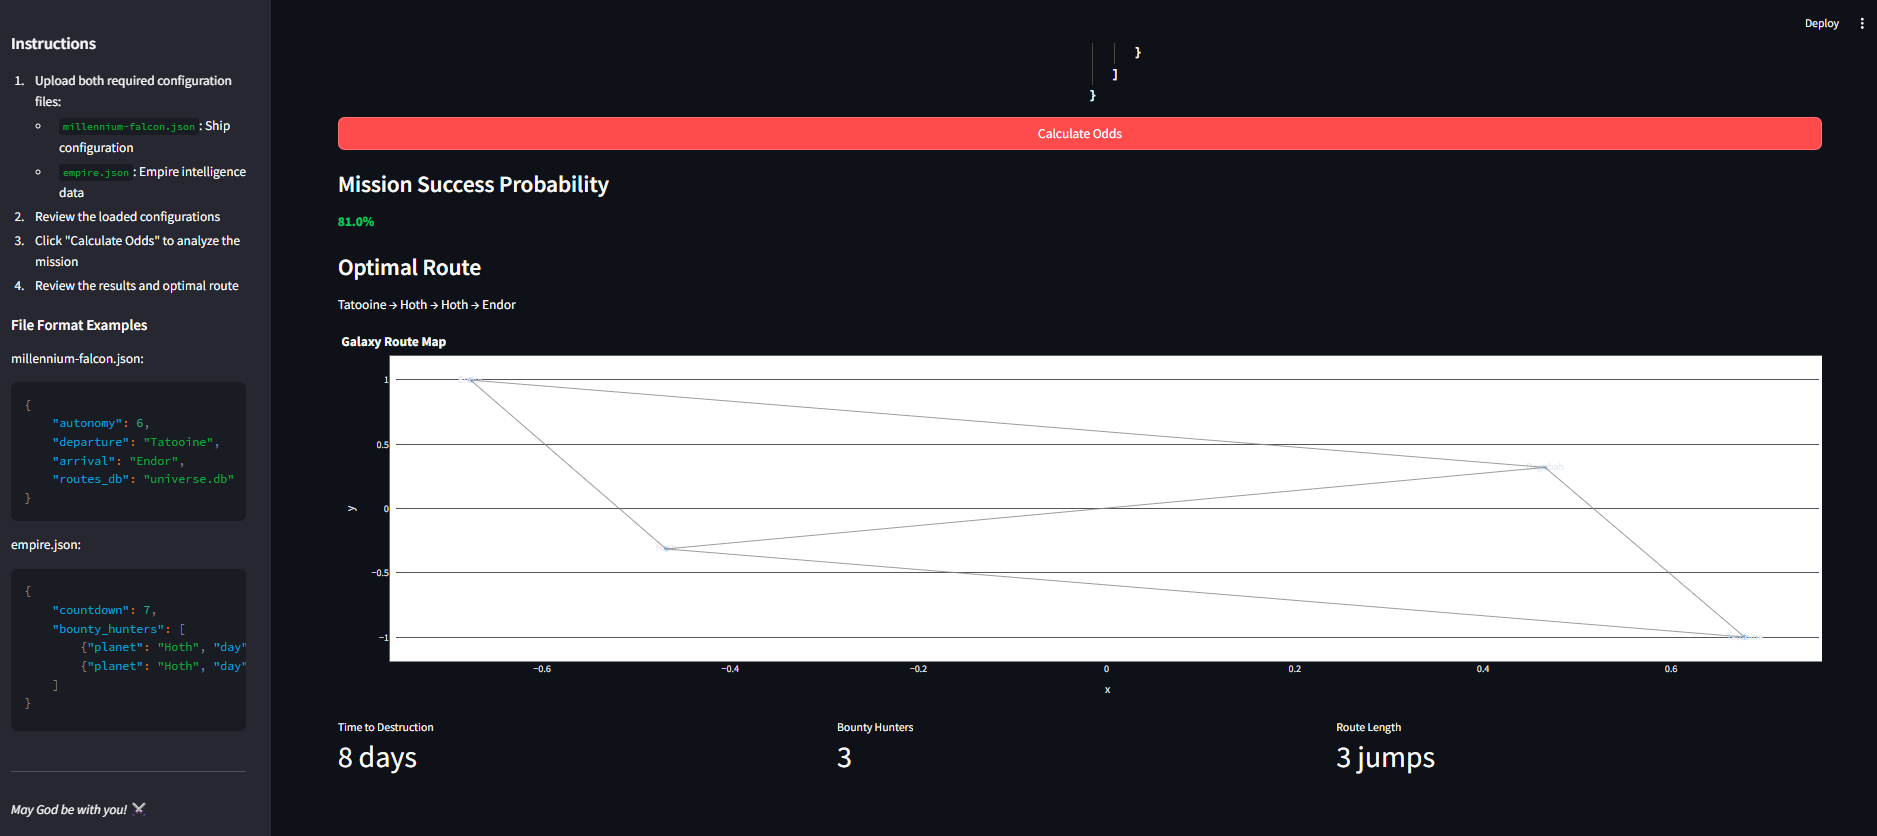
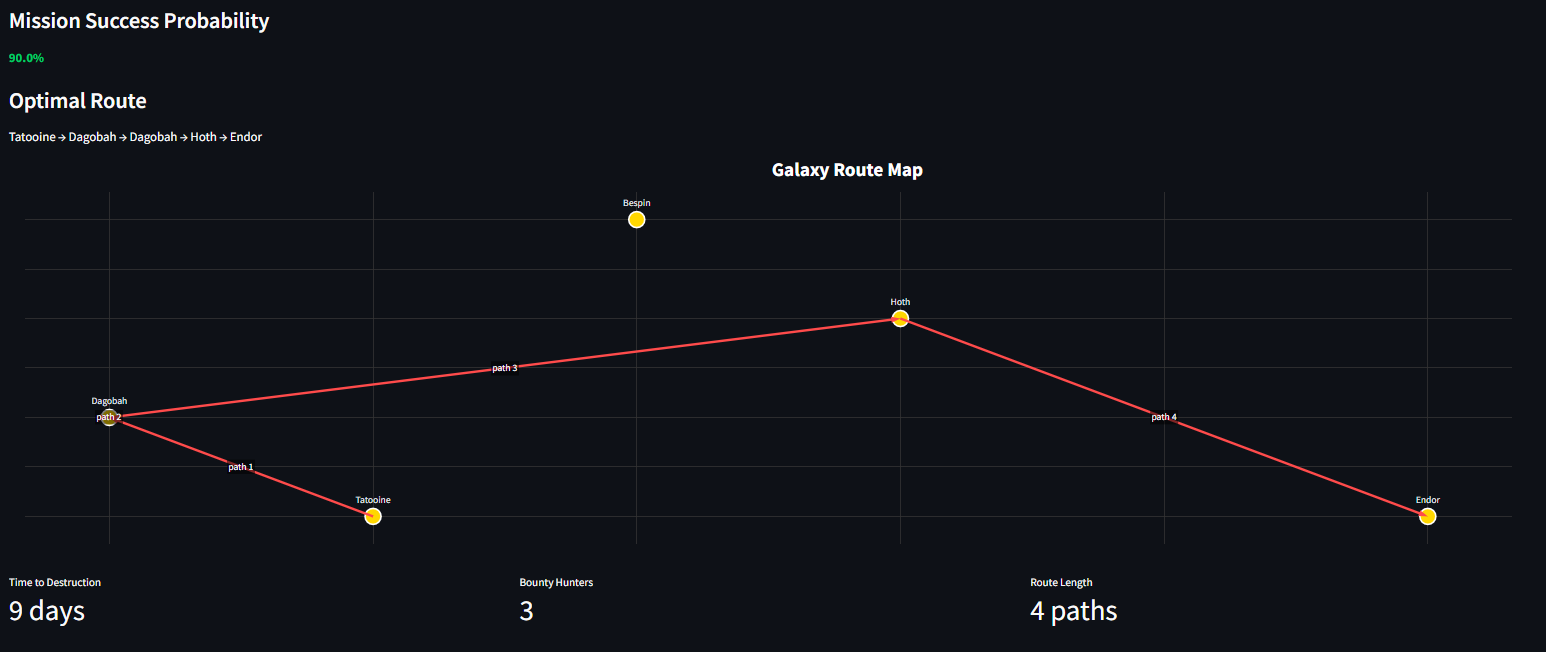
Some updates

diff --git a/Millennium-falcon-solution/webapp.py b/Millennium-falcon-solution/webapp.py
@@ -8,8 +8,7 @@ successfully reaching Endor.
 import streamlit as st
 import json
 from typing import Dict, Tuple
-import plotly.express as px
-import networkx as nx
+import plotly.graph_objects as go
 
 from Galaxy import Empire, MillenniumFalcon
 
@@ -62,60 +61,100 @@ def load_json_file(file_content) -> Dict:
 
 def create_route_visualization(falcon: MillenniumFalcon, optimal_path: list):
     """Create an interactive route visualization."""
-    G = falcon.create_graph()
-
-    # Create positions for nodes
-    pos = nx.spring_layout(G)
-
-    # Create edge trace
-    edge_x = []
-    edge_y = []
-    for edge in G.edges():
-        x0, y0 = pos[edge[0]]
-        x1, y1 = pos[edge[1]]
-        edge_x.extend([x0, x1, None])
-        edge_y.extend([y0, y1, None])
-
-    # Create node trace
-    node_x = []
-    node_y = []
-    node_text = []
-    node_color = []
-
-    for node in G.nodes():
-        x, y = pos[node]
-        node_x.append(x)
-        node_y.append(y)
-        node_text.append(node)
-        if node in optimal_path:
-            node_color.append("#FF4B4B")  # Red for optimal path
-        else:
-            node_color.append("#1f77b4")  # Blue for other nodes
+    # Define fixed positions for known planets
+    planet_positions = {
+        "Tatooine": (0, 0),
+        "Hoth": (2, 2),
+        "Endor": (4, 0),
+        "Dagobah": (-1, 1),
+        "Bespin": (1, 3),
+    }
 
     # Create figure
-    fig = px.scatter(
-        x=node_x,
-        y=node_y,
-        text=node_text,
-        title="Galaxy Route Map",
+    fig = go.Figure()
+
+    # Add all planets as points
+    x_planets, y_planets, names = [], [], []
+    for planet, pos in planet_positions.items():
+        x_planets.append(pos[0])
+        y_planets.append(pos[1])
+        names.append(planet)
+
+    # Add planets
+    fig.add_trace(
+        go.Scatter(
+            x=x_planets,
+            y=y_planets,
+            mode="markers+text",
+            name="Planets",
+            text=names,
+            textposition="top center",
+            marker=dict(
+                size=20,
+                color="gold",
+                symbol="circle",
+                line=dict(color="white", width=2),
+            ),
+            hovertemplate="%{text}<extra></extra>",
+        )
     )
 
-    # Add edges
-    fig.add_scatter(
-        x=edge_x,
-        y=edge_y,
-        mode="lines",
-        line=dict(color="#888", width=1),
-        hoverinfo="none",
+    # Create path coordinates
+    path_x, path_y = [], []
+    for planet in optimal_path:
+        if planet in planet_positions:
+            path_x.append(planet_positions[planet][0])
+            path_y.append(planet_positions[planet][1])
+
+    # Add path line
+    fig.add_trace(
+        go.Scatter(
+            x=path_x,
+            y=path_y,
+            mode="lines+markers",
+            name="Route",
+            line=dict(color="#FF4B4B", width=3),
+            marker=dict(size=12, color="#FF4B4B", symbol="arrow", angleref="previous"),
+            hoverinfo="skip",
+        )
     )
 
     # Update layout
     fig.update_layout(
+        title=dict(text="Galaxy Route Map", x=0.5, font=dict(size=24, color="white")),
+        paper_bgcolor="rgba(0,0,0,0)",
+        plot_bgcolor="rgba(0,0,0,0)",
         showlegend=False,
+        width=800,
+        height=500,
+        xaxis=dict(
+            showgrid=True,
+            gridwidth=1,
+            gridcolor="#333",
+            zeroline=False,
+            showticklabels=False,
+        ),
+        yaxis=dict(
+            showgrid=True,
+            gridwidth=1,
+            gridcolor="#333",
+            zeroline=False,
+            showticklabels=False,
+        ),
+        margin=dict(l=20, r=20, t=40, b=20),
         hovermode="closest",
-        margin=dict(b=20, l=5, r=5, t=40),
-        plot_bgcolor="white",
     )
+
+    # Add route annotations
+    for i in range(len(optimal_path) - 1):
+        fig.add_annotation(
+            x=(path_x[i] + path_x[i + 1]) / 2,
+            y=(path_y[i] + path_y[i + 1]) / 2,
+            text=f"path {i+1}",
+            showarrow=False,
+            font=dict(size=12, color="white"),
+            bgcolor="rgba(0,0,0,0.5)",
+        )
 
     return fig
 
@@ -233,7 +272,7 @@ def main():
                     with metrics_col3:
                         st.metric(
                             "Route Length",
-                            f"{len(optimal_path) - 1} jumps" if optimal_path else "N/A",
+                            f"{len(optimal_path) - 1} paths" if optimal_path else "N/A",
                         )
 
     # Instructions
